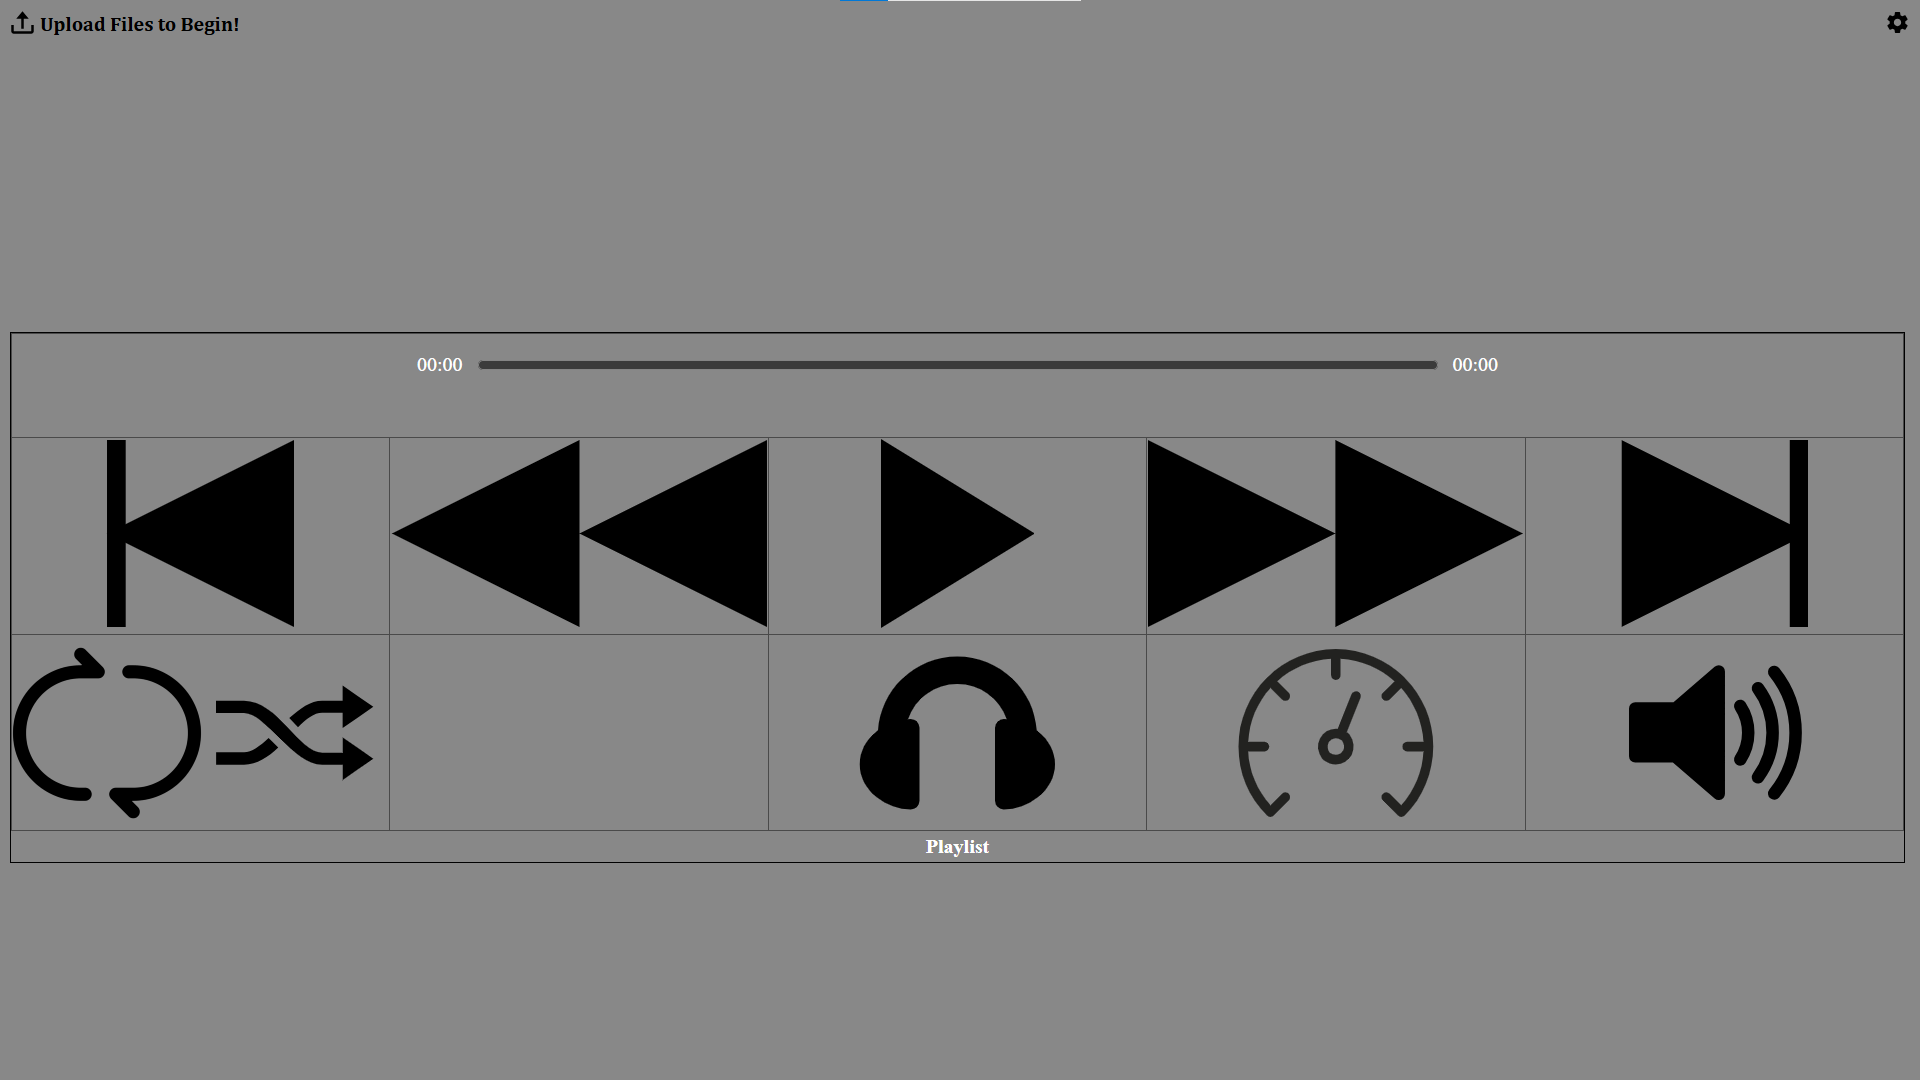
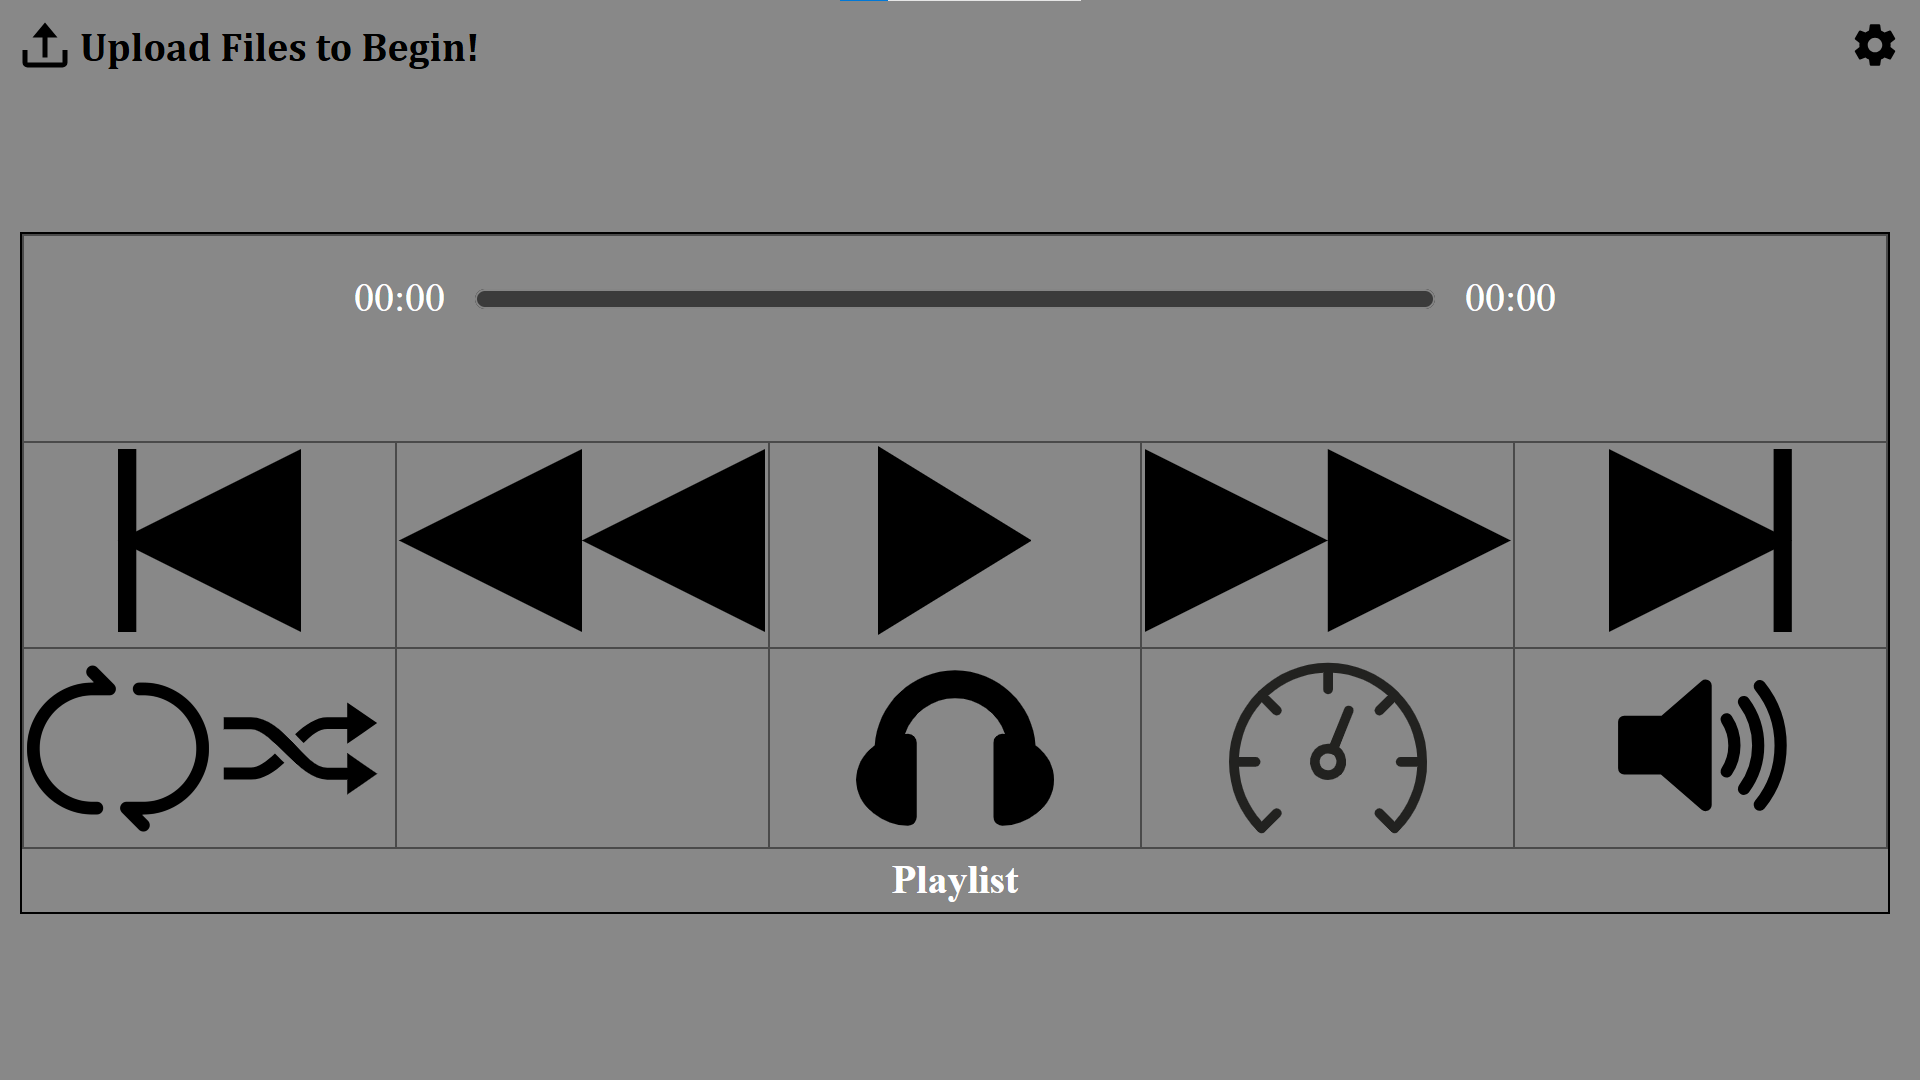
keyboard navigation visual fixes pwa style & visual fixes

diff --git a/CSS/PlaylistCreator.css b/CSS/PlaylistCreator.css
@@ -241,7 +241,7 @@ table{
     border-spacing: 1px;
     border: 1px gray;
 }
-.tableBorder:not(:focus-within, :focus){
+.tableBorder:not(:focus-visible){
     outline: 1px solid rgb(74, 74, 74);
     border-collapse: collapse;
     border-radius: 0;

diff --git a/COSSTATLIST/cosStatList.js b/COSSTATLIST/cosStatList.js
@@ -1,9 +1,9 @@
 "use strict";
 var creatureList = [];
+var nameStat;
 var statList = [];
 var selectedStats = [];
 var activeFilters = [];
-var nameStat;
 var currentSortFunction;
 var sortAscending = false;
 var sortDirty = false;
